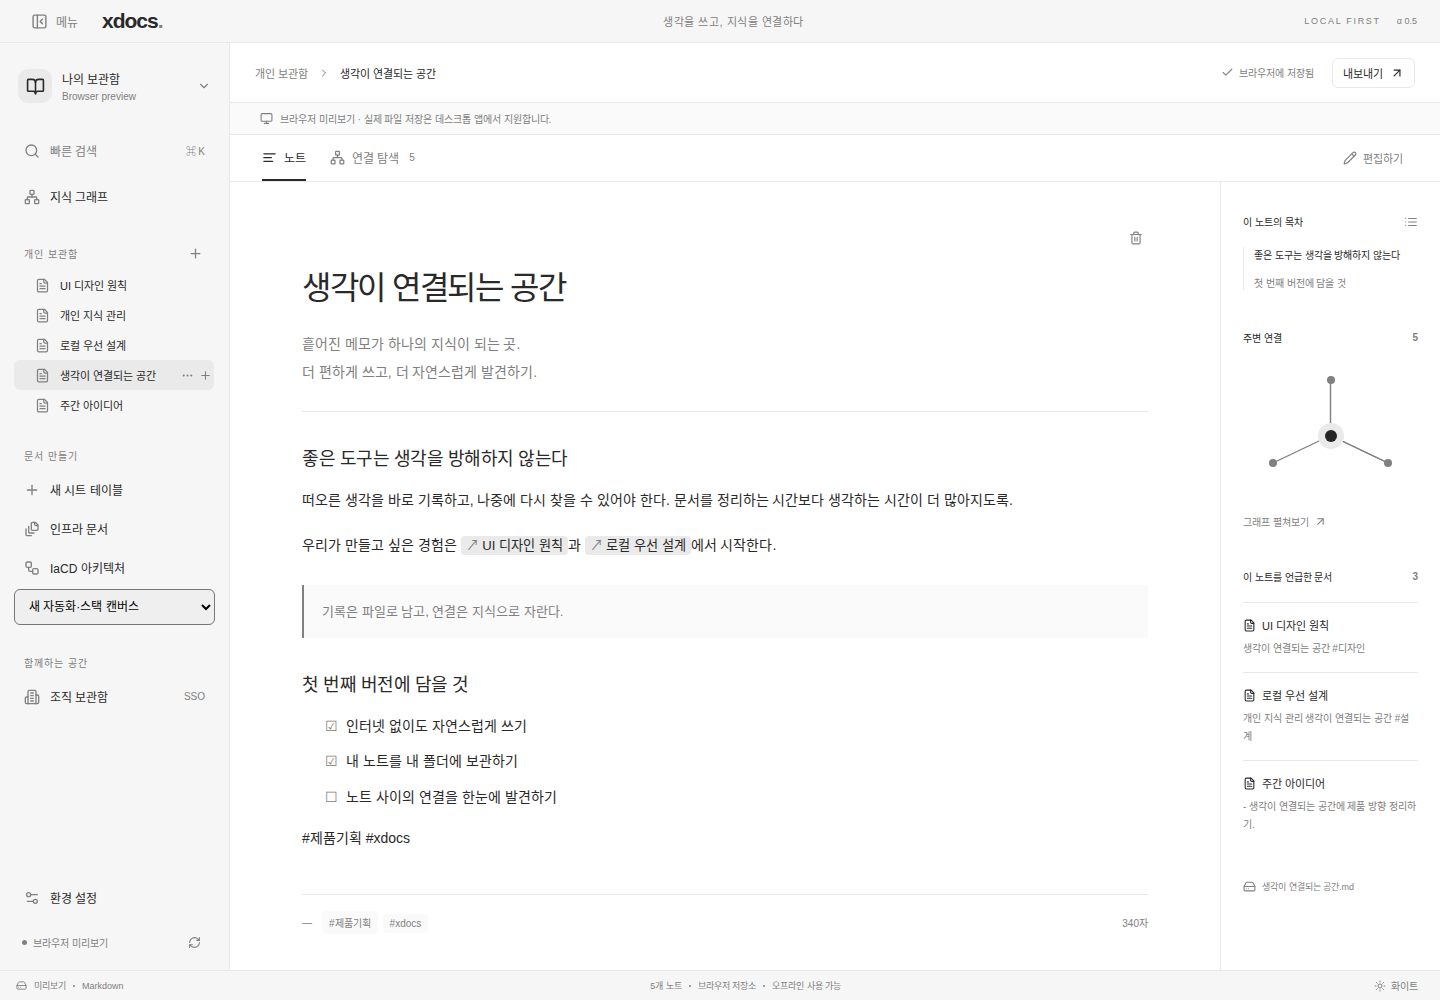
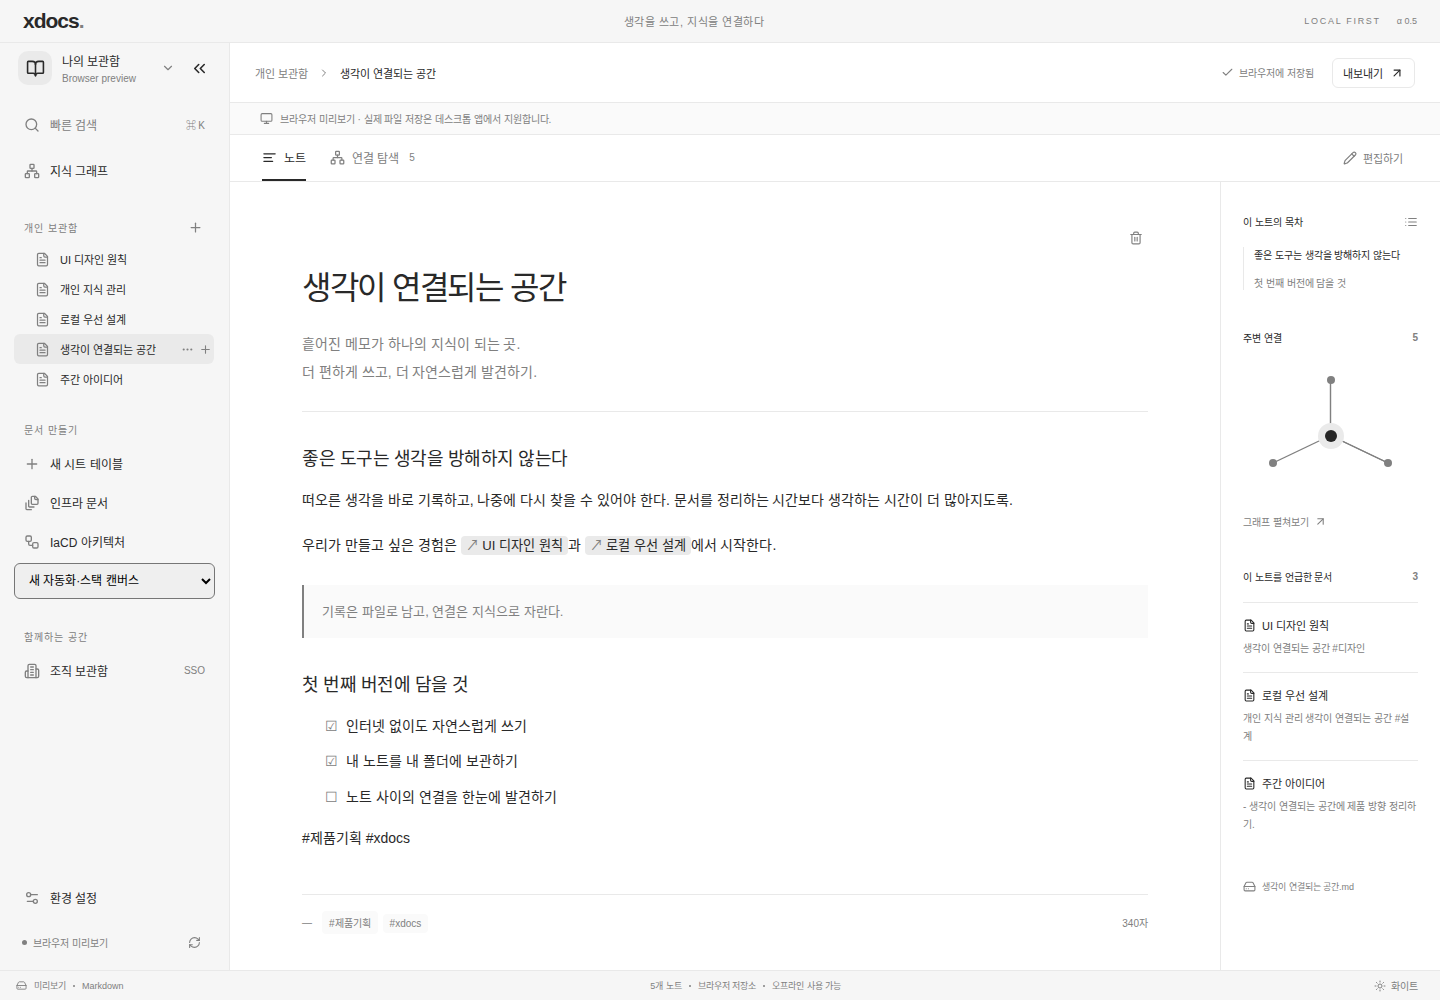
Place collapse and expand controls on the workspace sidebar

diff --git a/src/App.tsx b/src/App.tsx
@@ -63,8 +63,8 @@ import {
   Loader2,
   Moon,
   Network,
-  PanelLeftClose,
-  PanelLeftOpen,
+  ChevronsLeft,
+  ChevronsRight,
   Plus,
   RefreshCw,
   Search,
@@ -139,7 +139,11 @@ export default function App() {
     query.addEventListener("change", resize);
     return () => query.removeEventListener("change", resize);
   }, []);
+  const sidebarToggle = useRef<HTMLButtonElement>(null);
   function toggleSidebar() {
+    requestAnimationFrame(() =>
+      sidebarToggle.current?.focus({ preventScroll: true }),
+    );
     if (compactNav) setDrawer(!drawer);
     else {
       localStorage.setItem("xdocs.sidebar", desktopSidebar ? "closed" : "open");
@@ -744,31 +748,29 @@ export default function App() {
   return (
     <div className={`app ${sidebar ? "" : "sidebar-hidden"}`}>
       <header className="titlebar">
-        <div className="titlebar-start">
-          <button
-            className="sidebar-switch"
-            aria-label={sidebar ? "왼쪽 메뉴 접기" : "왼쪽 메뉴 펼치기"}
-            title={sidebar ? "왼쪽 메뉴 접기" : "왼쪽 메뉴 펼치기"}
-            aria-expanded={sidebar}
-            aria-controls="workspace-navigation"
-            onClick={toggleSidebar}
-          >
-            {sidebar ? (
-              <PanelLeftClose size={17} />
-            ) : (
-              <PanelLeftOpen size={17} />
-            )}
-            <span>메뉴</span>
-          </button>
-          <div className="wordmark">
-            xdocs<span>.</span>
-          </div>
+        <div className="wordmark">
+          xdocs<span>.</span>
         </div>
         <span className="titlebar-center">생각을 쓰고, 지식을 연결하다</span>
         <span className="version">
           LOCAL FIRST <span>α 0.5</span>
         </span>
       </header>
+      {!sidebar && (
+        <div className="sidebar-rail">
+          <button
+            className="sidebar-switch"
+            aria-label="왼쪽 메뉴 펼치기"
+            title="왼쪽 메뉴 펼치기"
+            aria-controls="workspace-navigation"
+            aria-expanded={false}
+            ref={sidebarToggle}
+            onClick={toggleSidebar}
+          >
+            <ChevronsRight size={19} />
+          </button>
+        </div>
+      )}
       {compactNav && drawer && (
         <button
           className="nav-backdrop"
@@ -791,22 +793,37 @@ export default function App() {
             setDrawer(false);
         }}
       >
-        <button
-          className="workspace-switch"
-          onClick={openVault}
-          disabled={busy}
-        >
-          <span className="workspace-icon">
-            <BookOpen size={19} />
-          </span>
-          <span>
-            <strong>{workspace?.name || "나의 보관함"}</strong>
-            <small>
-              {isDesktop ? "Personal workspace" : "Browser preview"}
-            </small>
-          </span>
-          <ChevronDown size={14} />
-        </button>
+        <div className="sidebar-heading">
+          <button
+            className="workspace-switch"
+            onClick={openVault}
+            disabled={busy}
+          >
+            <span className="workspace-icon">
+              <BookOpen size={19} />
+            </span>
+            <span>
+              <strong>{workspace?.name || "나의 보관함"}</strong>
+              <small>
+                {isDesktop ? "Personal workspace" : "Browser preview"}
+              </small>
+            </span>
+            <ChevronDown size={14} />
+          </button>
+          {sidebar && (
+            <button
+              className="sidebar-switch"
+              aria-label="왼쪽 메뉴 접기"
+              title="왼쪽 메뉴 접기"
+              aria-controls="workspace-navigation"
+              aria-expanded
+              ref={sidebarToggle}
+              onClick={toggleSidebar}
+            >
+              <ChevronsLeft size={19} />
+            </button>
+          )}
+        </div>
         <button
           className="nav-item search-nav"
           onClick={() => setSearchOpen(true)}

diff --git a/src/styles.css b/src/styles.css
@@ -152,8 +152,9 @@ textarea {
   align-items: center;
   gap: 10px;
   text-align: left;
-  padding: 0 4px 28px;
-  width: 100%;
+  padding: 0 4px;
+  flex: 1;
+  min-width: 0;
 }
 .workspace-icon {
   height: 34px;
@@ -1228,12 +1229,10 @@ textarea {
   border: 0;
 }
 .sidebar-hidden {
-  grid-template-columns: 0 minmax(0, 1fr);
+  grid-template-columns: 40px minmax(0, 1fr);
 }
 .sidebar-hidden .sidebar {
-  visibility: hidden;
-  padding: 0;
-  overflow: hidden;
+  display: none;
 }
 .spin {
   animation: spin 1s linear infinite;
@@ -1254,7 +1253,7 @@ textarea {
     grid-template-columns: 250px minmax(0, 1fr);
   }
   .sidebar-hidden {
-    grid-template-columns: 0 minmax(0, 1fr);
+    grid-template-columns: 40px minmax(0, 1fr);
   }
   .document-layout {
     grid-template-columns: minmax(0, 1fr) 250px;
@@ -1275,7 +1274,7 @@ textarea {
     padding: 40px 45px;
   }
   .sidebar-hidden {
-    grid-template-columns: 0 minmax(0, 1fr);
+    grid-template-columns: 40px minmax(0, 1fr);
   }
   .breadcrumb strong {
     max-width: 170px;
@@ -1352,7 +1351,7 @@ textarea {
     display: none;
   }
   .sidebar-hidden {
-    grid-template-columns: 0 minmax(0, 1fr);
+    grid-template-columns: 40px minmax(0, 1fr);
   }
   .preview-banner {
     font-size: 9px;
@@ -1418,6 +1417,7 @@ textarea {
     color: black;
   }
   .titlebar,
+  .sidebar-rail,
   .sidebar,
   .toolbar,
   .view-tabs,
@@ -2527,10 +2527,37 @@ textarea {
 .network-sheet [data-bend] {cursor:move;}
 
 /* The navigation and its toggle have independent scroll ownership. */
-.titlebar-start, .sidebar-switch { display: flex; align-items: center; gap: 8px; }
-.titlebar-start { gap: 16px; }
-.sidebar-switch { min-height: 32px; padding: 4px 8px; border-radius: 5px; color: var(--muted); font-size: 12px; }
-.sidebar-switch:hover, .sidebar-switch:focus-visible { color: var(--ink); background: var(--hover); }
+.sidebar-heading {
+  position: sticky;
+  top: 0;
+  z-index: 1;
+  display: flex;
+  align-items: center;
+  gap: 4px;
+  padding-block: 8px;
+  margin-bottom: 12px;
+  background: var(--sidebar);
+}
+.sidebar { padding-top: 0; }
+.sidebar-rail {
+  grid-area: 2 / 1;
+  display: flex;
+  justify-content: center;
+  align-items: flex-start;
+  padding-top: 8px;
+  background: var(--sidebar);
+  border-right: 1px solid var(--line);
+}
+.sidebar-switch {
+  display: grid;
+  place-items: center;
+  flex: none;
+  width: 32px;
+  height: 32px;
+  color: var(--ink);
+  border-radius: 6px;
+}
+.sidebar-switch:hover, .sidebar-switch:focus-visible { background: var(--active); }
 .sidebar > * { flex-shrink: 0; }
 .toolbar, .preview-banner { flex-shrink: 0; }
 .arch-toolbar, .arch-tools, .arch-toolbar .segmented, .arch-canvas-tools { flex-wrap: wrap; }
@@ -2543,8 +2570,8 @@ textarea {
 .reference-list { max-height: clamp(100px, 18dvh, 180px); }
 
 @media (max-height: 800px) {
-  .sidebar { padding-block: 14px; }
-  .workspace-switch { padding-bottom: 12px; }
+  .sidebar { padding-bottom: 14px; }
+  .sidebar-heading { margin-bottom: 4px; }
   .nav-label { padding-top: 14px; }
   .sidebar-bottom { padding-top: 12px; }
   .graph:not(.compact) { padding-block: 20px; }
@@ -2558,7 +2585,9 @@ textarea {
   .sheet-layout .document { padding-inline: clamp(14px, 2.5vw, 28px); }
 }
 @media (max-width: 600px) {
-  .app, .app.sidebar-hidden { grid-template-columns: minmax(0, 1fr); }
+  .app { grid-template-columns: minmax(0, 1fr); }
+  .app.sidebar-hidden { grid-template-columns: 40px minmax(0, 1fr); }
+  .sidebar-hidden .main { grid-column: 2; }
   .main { grid-column: 1; grid-row: 2; }
   .sidebar { display: flex; position: fixed; top: 43px; bottom: 30px; left: 0; width: min(280px, 85vw); z-index: 21; }
   .sidebar-hidden .sidebar { display: none; }

diff --git a/tests/ui/layout.spec.ts b/tests/ui/layout.spec.ts
@@ -33,10 +33,18 @@ test("laptop sidebar stays reachable, remembers its width state and gives the tr
   await main.evaluate((e) => {
     e.scrollTop = e.scrollHeight;
   });
+  await expect(page.locator(".titlebar button")).toHaveCount(0);
+  await expect(
+    page.locator(".sidebar-heading .sidebar-switch"),
+  ).toBeInViewport();
+  await page.locator(".sidebar").evaluate((e) => {
+    e.scrollTop = e.scrollHeight;
+  });
   await expect(menu).toBeInViewport();
   await menu.click();
   await expect(menu).toHaveAttribute("aria-expanded", "false");
-  expect(await main.evaluate((e) => e.clientWidth)).toBe(780);
+  await expect(page.locator(".sidebar-rail .sidebar-switch")).toBeFocused();
+  expect(await main.evaluate((e) => e.clientWidth)).toBe(740);
   await page.reload();
   await expect(menu).toHaveAccessibleName("왼쪽 메뉴 펼치기");
   await menu.click();
